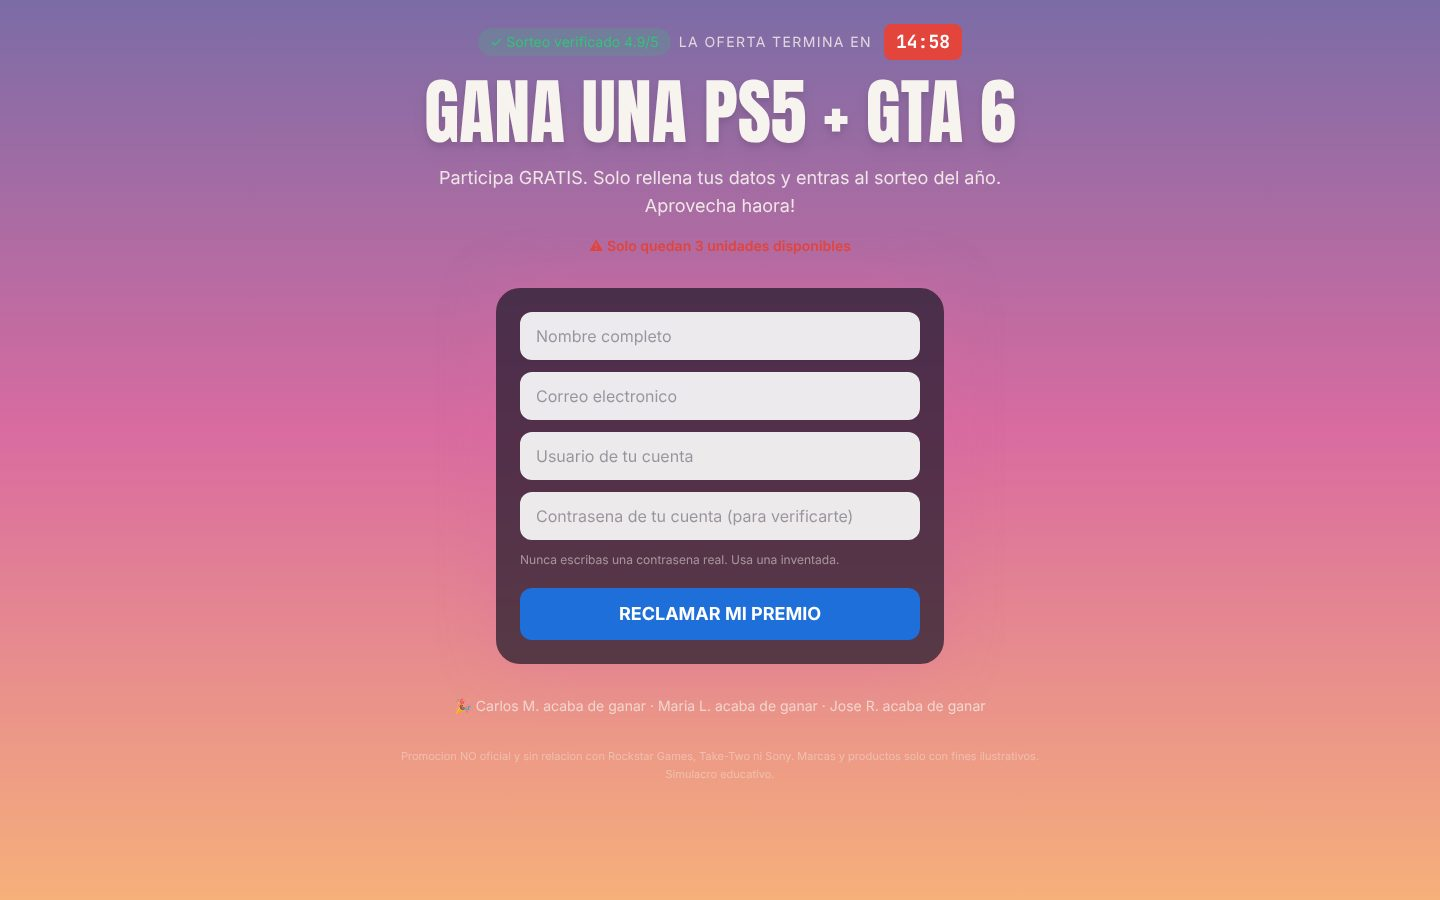
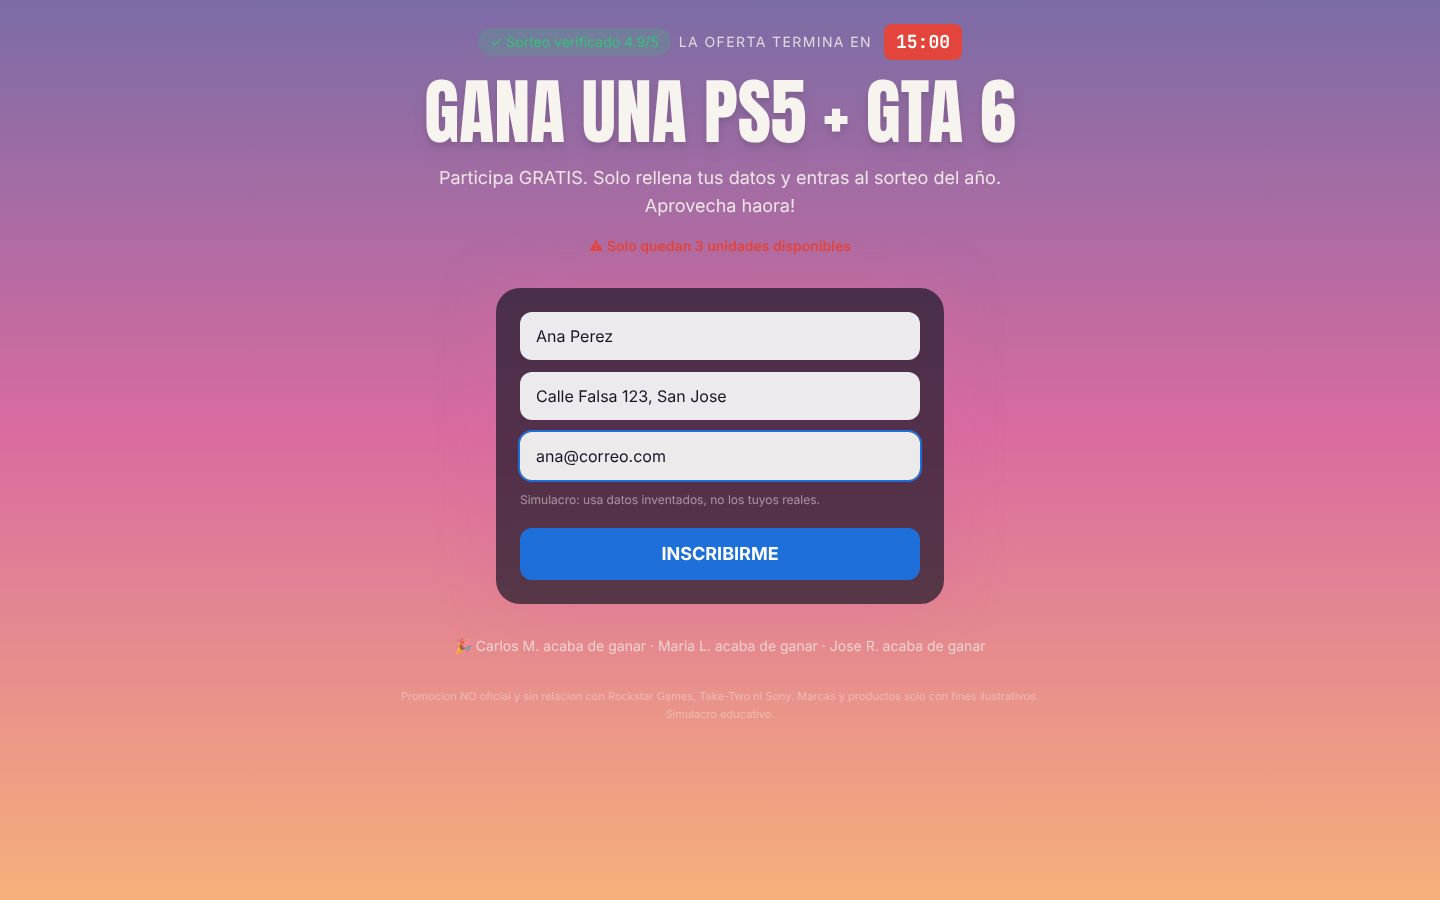
Bait form: name + address + email, no password, gated submit
- Replace username/password fields with name, shipping address, email.
- "Inscribirme" button stays disabled until all three fields are filled.
- Reveal echoes name/address/email as a warning about what was handed over.
- Signal #6 reframed from "asks your password" to "asks for excess data".
- Regenerate bait screenshot and detail crops to match the new form;
  debrief example now shows sample data so the warning is visible when projected.

Still fully client-side: nothing transmitted or stored.

Claude-Session: https://claude.ai/code/session_01VXTNLZp4hB5DNx1nNrp1j8

diff --git a/components/BaitScreen.tsx b/components/BaitScreen.tsx
@@ -5,12 +5,11 @@ import Countdown from "./Countdown";
 
 export type Entered = {
   nombre: string;
+  direccion: string;
   email: string;
-  usuario: string;
-  password: string;
 };
 
-const EMPTY: Entered = { nombre: "", email: "", usuario: "", password: "" };
+const EMPTY: Entered = { nombre: "", direccion: "", email: "" };
 
 // Pantalla CEBO. Imita un sorteo falso. NO envia ni guarda nada:
 // onSubmit hace preventDefault y pasa los datos al estado del padre.
@@ -21,8 +20,15 @@ export default function BaitScreen({
 }) {
   const [data, setData] = useState<Entered>(EMPTY);
 
+  // El boton solo se activa cuando los tres campos tienen contenido.
+  const completo =
+    data.nombre.trim() !== "" &&
+    data.direccion.trim() !== "" &&
+    data.email.trim() !== "";
+
   function handleSubmit(e: React.FormEvent) {
     e.preventDefault(); // nada sale del navegador
+    if (!completo) return;
     onCaught(data);
   }
 
@@ -66,6 +72,13 @@ export default function BaitScreen({
               value={data.nombre}
               onChange={(e) => setData({ ...data, nombre: e.target.value })}
             />
+            {/* Senuelo nº 6: pide datos personales de mas (direccion) */}
+            <input
+              className={field}
+              placeholder="Direccion de envio del premio"
+              value={data.direccion}
+              onChange={(e) => setData({ ...data, direccion: e.target.value })}
+            />
             <input
               className={field}
               type="email"
@@ -73,29 +86,16 @@ export default function BaitScreen({
               value={data.email}
               onChange={(e) => setData({ ...data, email: e.target.value })}
             />
-            <input
-              className={field}
-              placeholder="Usuario de tu cuenta"
-              value={data.usuario}
-              onChange={(e) => setData({ ...data, usuario: e.target.value })}
-            />
-            {/* Senuelo nº 6: pide la contrasena */}
-            <input
-              className={field}
-              type="password"
-              placeholder="Contrasena de tu cuenta (para verificarte)"
-              value={data.password}
-              onChange={(e) => setData({ ...data, password: e.target.value })}
-            />
             <p className="text-xs text-paper/50">
-              Nunca escribas una contrasena real. Usa una inventada.
+              Simulacro: usa datos inventados, no los tuyos reales.
             </p>
 
             <button
               type="submit"
-              className="mt-2 rounded-xl bg-chrome-blue py-3 text-lg font-bold text-white transition hover:brightness-110"
+              disabled={!completo}
+              className="mt-2 rounded-xl bg-chrome-blue py-3 text-lg font-bold text-white transition hover:brightness-110 disabled:cursor-not-allowed disabled:bg-white/20 disabled:text-paper/50 disabled:hover:brightness-100"
             >
-              RECLAMAR MI PREMIO
+              {completo ? "INSCRIBIRME" : "Rellena los 3 campos"}
             </button>
           </div>
         </form>

diff --git a/components/RevealScreen.tsx b/components/RevealScreen.tsx
@@ -36,9 +36,8 @@ export default function RevealScreen({
 
   const typed = [
     ["Nombre", entered.nombre],
+    ["Direccion", entered.direccion],
     ["Correo", entered.email],
-    ["Usuario", entered.usuario],
-    ["Contrasena", entered.password ? "•".repeat(entered.password.length) : ""],
   ].filter(([, v]) => v);
 
   const row =
@@ -94,14 +93,14 @@ export default function RevealScreen({
             </figure>
             <figure>
               <img
-                src="/crop-password.jpg"
-                alt="Campo que pide la contrasena de tu cuenta"
+                src="/crop-direccion.jpg"
+                alt="Campo que pide tu direccion de envio"
                 className="w-full rounded-lg"
                 width={420}
-                height={70}
+                height={66}
               />
               <figcaption className="mt-2 text-paper/60">
-                Te piden la contrasena. Nadie legitimo lo hace.
+                Piden tu direccion: datos de mas para un sorteo.
               </figcaption>
             </figure>
             <figure>
@@ -135,12 +134,11 @@ export default function RevealScreen({
                 </div>
               ))}
             </dl>
-            {entered.password && (
-              <p className="mt-6 max-w-[55ch] text-lg leading-relaxed text-bait-urgent">
-                Si escribiste una contrasena real, cambiala ahora mismo en el
-                servicio donde la uses.
-              </p>
-            )}
+            <p className="mt-6 max-w-[55ch] text-lg leading-relaxed text-bait-urgent">
+              Con tu nombre, tu direccion y tu correo, un estafador ya sabe quien
+              eres, donde vives y por donde contactarte. No hagas falta mas para
+              suplantarte o enganarte mejor la proxima vez.
+            </p>
           </section>
         )}
 

diff --git a/lib/signals.ts b/lib/signals.ts
@@ -40,9 +40,9 @@ export const SIGNALS: Signal[] = [
   },
   {
     id: 6,
-    titulo: "Pide tu contrasena",
+    titulo: "Pide datos de mas",
     explicacion:
-      "Te piden la contrasena de una cuenta para 'verificarte'. Ningun servicio legitimo hace eso.",
+      "Para un 'sorteo' te piden nombre completo y direccion. Es demasiada informacion personal para lo que ofrecen: asi te perfilan o te suplantan.",
   },
   {
     id: 7,

diff --git a/components/Experience.tsx b/components/Experience.tsx
@@ -4,7 +4,7 @@ import { useState } from "react";
 import BaitScreen, { type Entered } from "./BaitScreen";
 import RevealScreen from "./RevealScreen";
 
-const EMPTY: Entered = { nombre: "", email: "", usuario: "", password: "" };
+const EMPTY: Entered = { nombre: "", direccion: "", email: "" };
 
 // Maquina de estados del simulacro: cebo -> revelacion.
 // Todo vive en memoria del componente; al recargar, se pierde.

diff --git a/app/debrief/page.tsx b/app/debrief/page.tsx
@@ -9,7 +9,11 @@ export default function DebriefPage() {
   const router = useRouter();
   return (
     <RevealScreen
-      entered={{ nombre: "", email: "", usuario: "", password: "" }}
+      entered={{
+        nombre: "Ana Perez (ejemplo)",
+        direccion: "Calle Falsa 123, San Jose",
+        email: "ana.ejemplo@correo.com",
+      }}
       onReset={() => router.push("/")}
     />
   );
